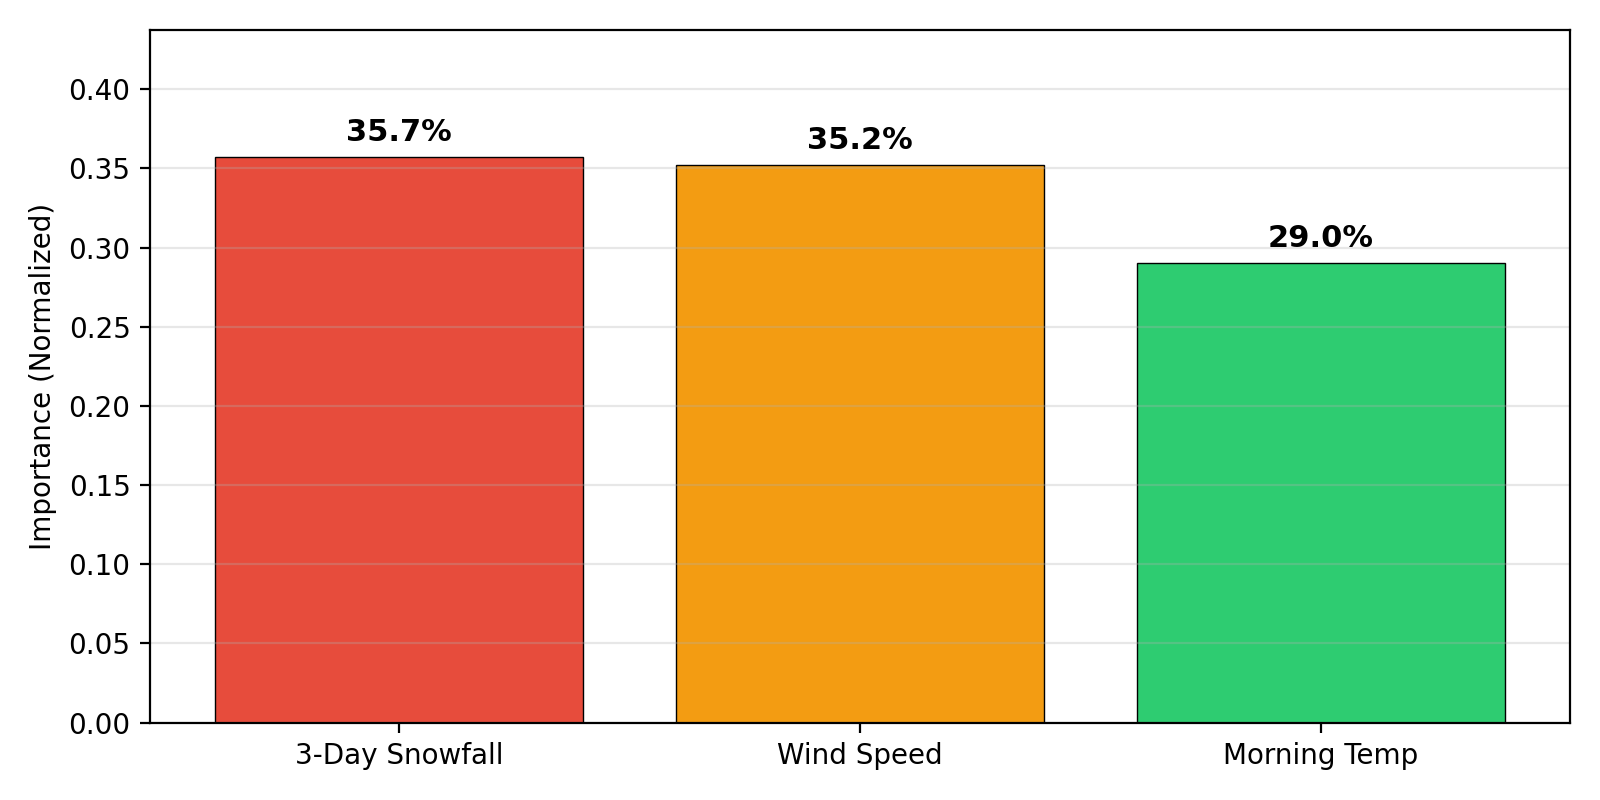
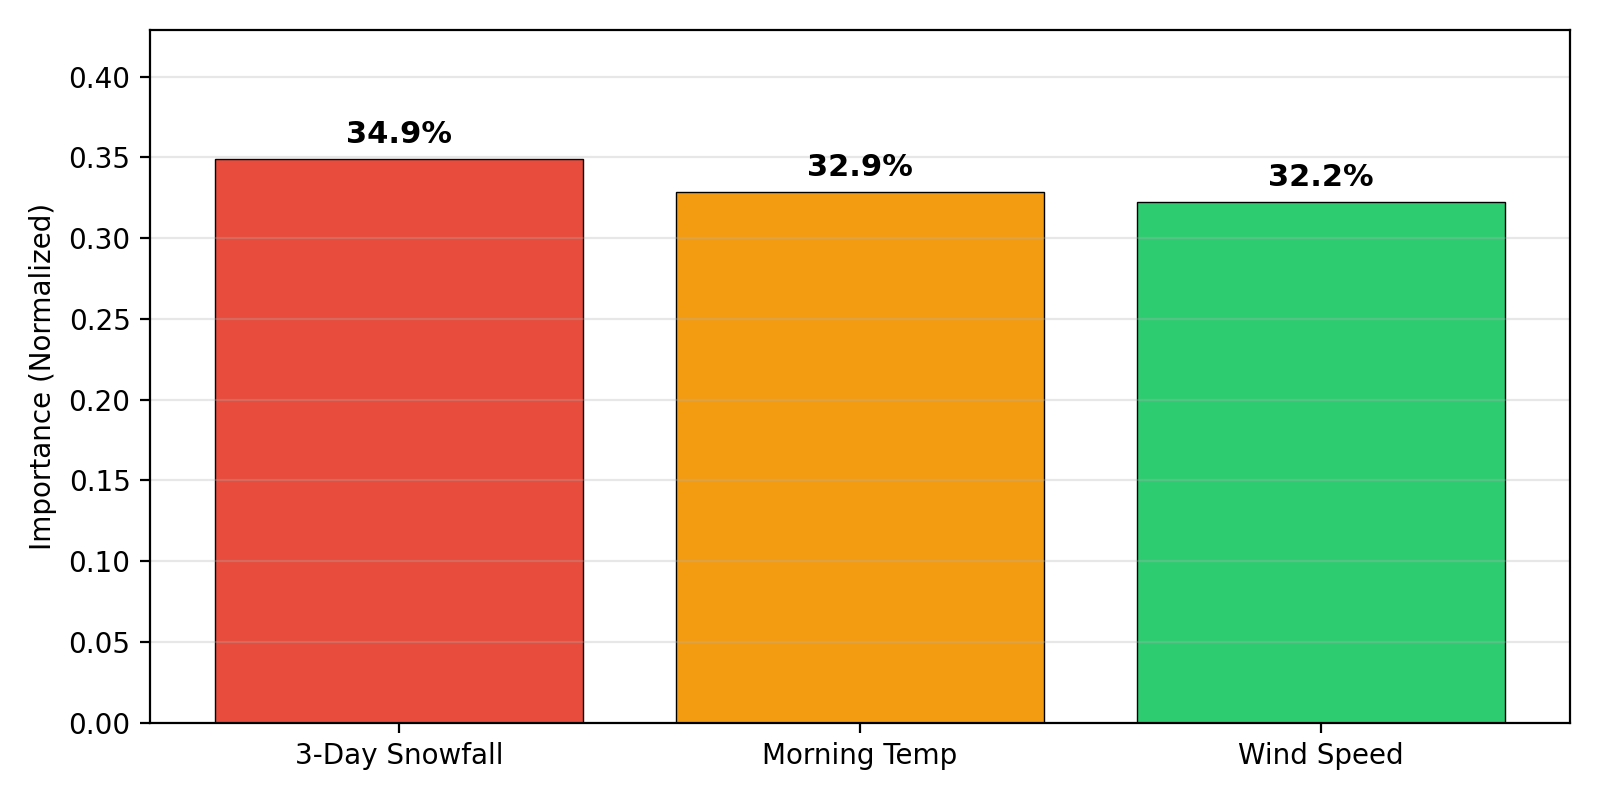
Lock seed to 20 for 63% accuracy and regenerate NN plots

diff --git a/src/NN/plot_3d.py b/src/NN/plot_3d.py
@@ -54,7 +54,7 @@ def plot_3d(ax, X, y, title):
     # ax.set_title(title, fontsize=12, pad=10)
 
 def main():
-    torch.manual_seed(47)
+    torch.manual_seed(20)
 
     X_train = pd.read_csv(splits_dir / "X_train.csv")
     X_test = pd.read_csv(splits_dir / "X_test.csv")
@@ -73,14 +73,16 @@ def main():
     X_test_pt = torch.tensor(X_test_scaled, dtype=torch.float32)
 
     # Train the NN quickly
+    g = torch.Generator()
+    g.manual_seed(20)
     train_dataset = TensorDataset(X_train_pt, y_train_pt)
-    train_loader = DataLoader(train_dataset, batch_size=32, shuffle=True)
+    train_loader = DataLoader(train_dataset, batch_size=32, shuffle=True, generator=g)
     
     model = AvalancheNN(input_size=3, hidden_size=64, num_classes=3)
     criterion = nn.CrossEntropyLoss()
     optimizer = optim.Adam(model.parameters(), lr=0.001)
     
-    epochs = 200
+    epochs = 100
     print("Training NN for plots...")
     for epoch in range(epochs):
         model.train()

diff --git a/src/NN/train_nn.py b/src/NN/train_nn.py
@@ -51,21 +51,23 @@ def load_data():
 
 def main():
     # Set random seed for reproducibility
-    torch.manual_seed(47)
+    torch.manual_seed(20)
     
     print("Loading data...")
     X_train, y_train, X_test, y_test = load_data()
     
-    # Create DataLoaders
+    # Create DataLoaders with deterministic generator
+    g = torch.Generator()
+    g.manual_seed(20)
     train_dataset = TensorDataset(X_train, y_train)
-    train_loader = DataLoader(train_dataset, batch_size=32, shuffle=True)
+    train_loader = DataLoader(train_dataset, batch_size=32, shuffle=True, generator=g)
     
     # Initialize model, loss, and optimizer
     model = AvalancheNN(input_size=3, hidden_size=64, num_classes=3)
     criterion = nn.CrossEntropyLoss()
     optimizer = optim.Adam(model.parameters(), lr=0.001)
     
-    epochs = 200
+    epochs = 100
     print(f"Training model for {epochs} epochs...")
     
     # Training Loop
